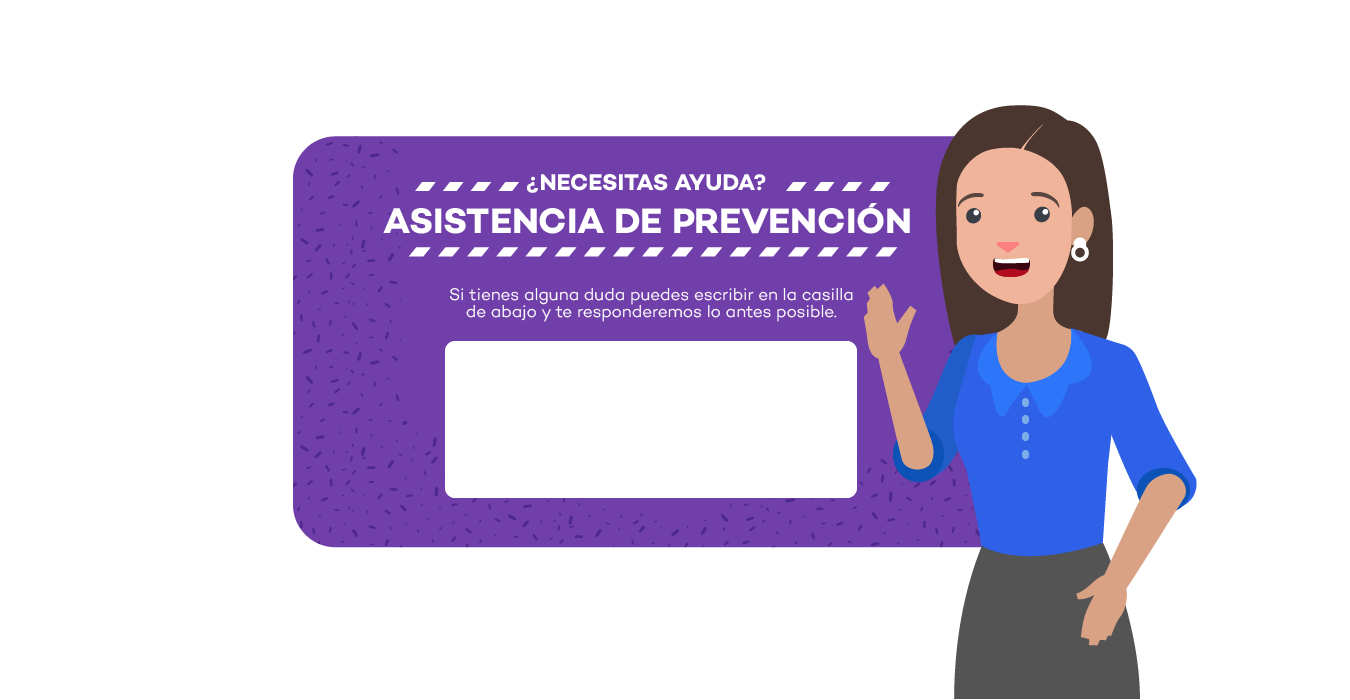
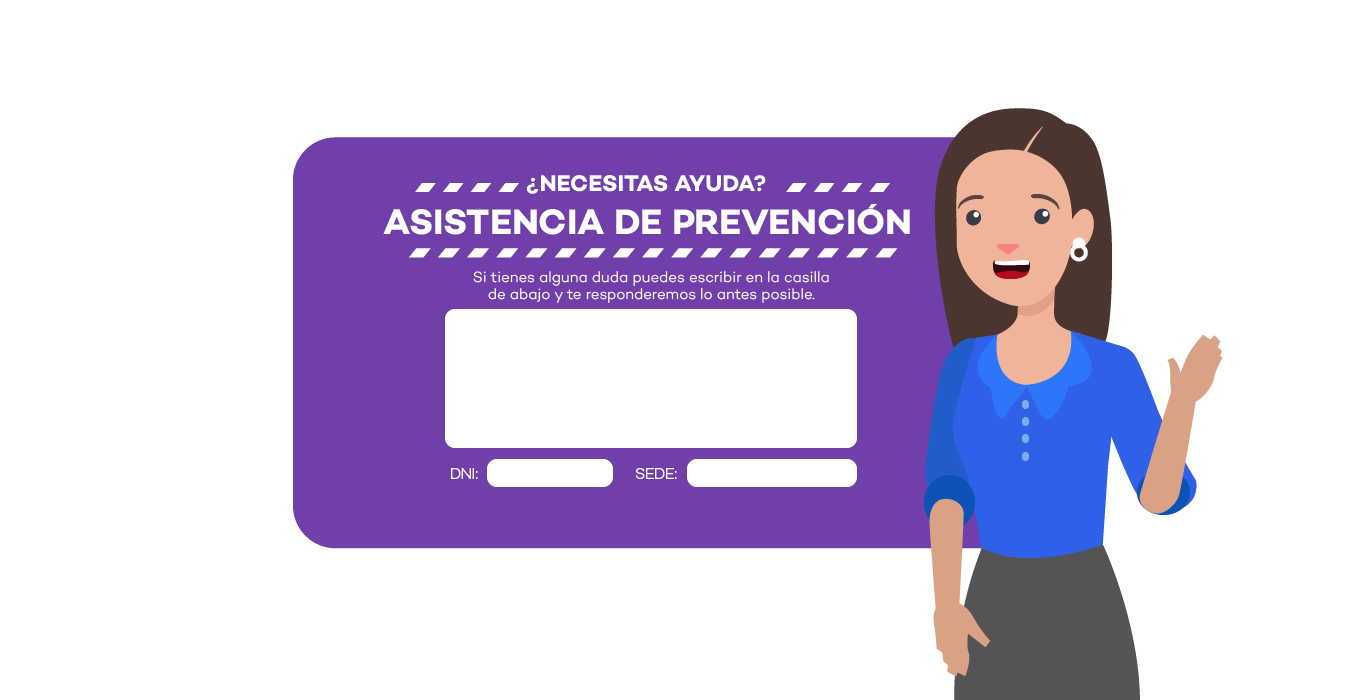
mapa buzon de correos

diff --git a/assets/mapa/js/inicio.js b/assets/mapa/js/inicio.js
@@ -47,6 +47,7 @@ var $J = [];
 $J[1] = new Lab_Juego();
 
 var $scaleActual = 1;
+var buzon_chart = 'Si tienes alguna duda puedes escribir en la casilla de abajo y te responderemos lo antes posible.';
 
 $.fn.reverse = [].reverse;
 
@@ -84,13 +85,34 @@ function initSonidos() {
 }
 function initBotones() {
 
+    $('.accordionMC').click(function () {
+        var idResp = $(this).attr('id').split("_")[1];
+        if($(this).hasClass('active')){
+            $(this).removeClass('active');
+            $('#pan_acord_'+idResp).hide();
+        } else{
+            $('.accordionMC').removeClass("active");
+            $(".panel").hide();
+            $(this).addClass('active');
+            $('#pan_acord_'+idResp).show();
+        }
+    });
+
+    $("#pop2ta").focus(function() {
+        $('#pop2txt1').html(buzon_chart);
+    });
+
+    $('#correo_mc').click(function() {
+        $('#accordion').fadeOut(500);
+        $('#formBuzon').fadeIn(500);
+    });
+
     $('.anim').click(function() {
         if($( "#topBar" ).hasClass("animPers")){
             $('#topBar').removeClass('animPers');
         }else{
             $('#topBar').addClass('animPers');
         }
-        
     });
 
     $('#btn_cont').click(function () {
@@ -139,7 +161,9 @@ function initBotones() {
         //$J[$JAct].CTiempo = $J[$JAct].CTiempo + 1;
         isPaused = false;
     });
+
     $('.pregOpc').click(function () {
+        playSound(window.playBTN);
         $('.caratula').stop().fadeOut(300);
         var idResp = parseInt($(this).attr('id').split("_")[2], 10);
         $('#powerUp_'+$ActPwrUp).addClass("hit");
@@ -157,6 +181,12 @@ function initBotones() {
                 isPaused = false;
             }, 1500);
             $PowerUps[$ActPwrUp - 1].visible = 200;
+            $('#accordion').fadeIn(500);
+            $('#formBuzon').fadeOut(500);
+
+            $('#pop2txt1').html(buzon_chart);
+            $('#pop2ta').val('');
+                
         }else{
             playSound(window.audioCrash);
             $ActPwrUp = 1;
@@ -177,13 +207,13 @@ function initBotones() {
 
     $('#i4Buzon').click(function () {
         playSound(window.playBTN);
-        $('#pop2txt1').show().html(pop2txt1);
+        $('#pop2txt1').show().html(buzon_chart);
         $('#pop2ta').val('');
         $('#popup2').fadeIn(1000);
     });
 
     //Envío de buzón
-    pop2txt1 = $('#pop2txt1').html();
+    //pop2txt1 = $('#pop2txt1').html();
     $('#pop2sub').click(function (e) {
         playSound(window.playBTN);
         e.preventDefault();
@@ -199,31 +229,29 @@ function initBotones() {
                 url: bdir + 'ajax/send_buzon'
             }).done(function (data, textStatus, jqXHR) {
                 $('#pop2txt1').show().html(data);
-                // console.log("OK:");
-                // console.log(data);
                 setTimeout(function () {
+                    $('#accordion').fadeIn(500);
+                    $('#formBuzon').fadeOut(500);
                     $('#pregWindow').fadeOut(1000);
                     $('#popAct_1').fadeOut(1000);
                     isPaused = false; 
                 }, 1000);
             }).fail(function (jqXHR, textStatus, errorThrown) {
-                // console.log("Fail:");
+                $('#pop2ta').addClass('error');
+                //console.log("Falló el envio de consulta");
                 // console.log(jqXHR);
             }).always(function () {
                 $('#pop2ta').removeClass('disable');
                 $('#pop2sub').removeClass('disable');
             });
         } else {
-            $('#pop2txt1').html('Complete el campo');
+            $('#pop2txt1').html('Completar el campo de consulta.');
         }
     });
     $('#pop2close').click(function () {
         playSound(window.playBTN);
         $('#popAct_1').fadeOut(1000);
     });
-
-
-
 }
 
 function initJuegos() {
@@ -328,9 +356,6 @@ function muestraPregunta() {
     isPaused = true;
     $(".caratula").hide();
     $("#pregWindow").show();
-    //$(".pregVista").hide();
-    //$("#bienFlechas").removeClass("animated bounceIn").hide();
-    //$(".bienSlider div").removeClass("animated bounceInRight").hide();
     PlayerMov.areaPtje.stop().removeClass('animated rubberBand').fadeOut(300);
     if($ActPwrUp == 2){
         if($drivers == 2){
@@ -348,15 +373,11 @@ function muestraPregunta() {
         $("#popAct_1").show();
     }else{
          $("#popAct_" + $ActPwrUp).show();   
-    }
-
-
-    
-    //$('#pregTXT').html($slA[$ActPwrUp]);
-    
+    }    
 }
+
 function snd_hablar(snd){
-    console.log(snd);
+    //console.log(snd);
     switch (snd) {
         case 1:
             playSound(window.Hablar2);                      

diff --git a/assets/mapa/css/estJuego.css b/assets/mapa/css/estJuego.css
@@ -1017,14 +1017,94 @@
 }
 
 /*******************************  Popup Buzon  *******************************/
-/* #pop2txt1{
-    padding: 50px 42px 30px;
-    font-family: "Catalogo";
-    font-size: 16px;
-    line-height: normal;
+#formBuzon{
+  position: absolute;
+  top: 0px;
+  left: 0px;
+  display: none;
+}
+#accordion{
+  background: url(../images/formulario/back_pop.png) no-repeat center center;
+  width: 749px;
+  height: 412px;
+  position: absolute;
+  left : 293px;
+  top : 136px;
+}
+.maestra{
+  background : url(../images/formulario/maestra.png) no-repeat;
+  position : absolute ;
+  left: 632px;
+  top: -32px;
+  width : 299px;
+  height : 593px;
+}
+.cont_accord
+{
+  position : absolute ;
+  left: 99px;
+  top: 141px;
+  width : 536px;
+  height : 196px;
+  overflow: scroll;
+  -webkit-overflow-scrolling: touch;
+  -ms-overflow-scrolling: touch;
+  -moz-overflow-scrolling: touch;
+  -o-overflow-scrolling: touch;
+}
+
+.accordionMC {
+  background-color: rgba(73, 46, 153, 0);
+  font-family: "Catalogo";
+  color: #fff;
+  cursor: pointer;
+  padding: 8px;
+  width: 100%;
+  border: none;
+  text-align: left;
+  outline: none;
+  font-size: 13px;
+  transition: 0.4s;
+}
+
+.active, .accordionMC:hover {
+  background-color: #482E99; 
+}
+
+.panel {
+  padding: 0 18px;
+  display: none;
+  background-color: #4A35A5;
+  overflow: hidden;
+  color: #ffffff;
+  font-family: "Catalogo";
+  font-size: 13px;
+}
+
+.accordionMC:after {
+    content: '\25b6';
     color: #ffffff;
-    text-align: center;
-} */
+    font-weight: bold;
+    float: left;
+    margin-left: 5px;
+    margin-right: 7px;
+    margin-top: -3px;
+}
+
+.active:after {
+    content: "\25bc";
+}
+#pop2txt1{
+  font-family: "Catalogo";
+  font-size: 16px;
+  line-height: normal;
+  color: #ffffff;
+  text-align: center;
+  position: absolute;
+  width: 420px;
+  top: 283px;
+  left: 442px;
+}
 #pop2ta{
     display: block;
     position: absolute;
@@ -1075,16 +1155,15 @@
     cursor: pointer;
 }
 
-/* #pop2close{
+#correo_mc{
   position: absolute;
-    left: 433px;
-    top: -15px;
-  width : 51px;
-  height : 51px;
-  background: rgba(0,0,0,0)  url(../images/formulario/cerrar.png) no-repeat 50% 50%;
-  background-size: contain;
+  left: 133px;
+  top: 378px;
+  width: 204px;
+  height: 51px;
+  background:url(../images/formulario/consultas.png) no-repeat;
   cursor:pointer;
-} */
+}
 /*******************************  Nivel PopUp Content Prevencion  *********************************/
 
 .i4Nivel{

diff --git a/assets/mapa/css/estGeneral.css b/assets/mapa/css/estGeneral.css
@@ -198,7 +198,7 @@ body{
 }
 #PauseGame{
     position: absolute;
-    width: 1351px; height: 700px;
+    width: 1351px; height: 701px;
     left: 0px; top: 0px;
     background: rgba(0,0,0,0.8) url(../images/fondoPausa.png) no-repeat 50% 50%;
     display: none;

diff --git a/application/views/mapa.php b/application/views/mapa.php
@@ -199,17 +199,58 @@ No te pierdas ninguno de las misiones, ya que muchas de ellos podrán llevarte a
                 </div>
 
                 <div id="popAct_1" class="caratula">
-                    <div class="opcAyuda"><p class="ayuda_MC"> </p></div>
                     <!-- <div id="i4Buzon"></div> -->
-                    <div id="preg_1_1" class="aceptaCd pregOpc"> </div>
+
+                    <div id="accordion">
+                        <div class="maestra"></div>
+                        <div class="cont_accord">
+                            <button id="acord_1" class="accordionMC">¿No puedo ingresar a algunos cursos?</button>
+                            <div id="pan_acord_1" class="panel">
+                                <p>Aqui va la respuesta de las preguntas correspondiente.</p>
+                            </div>
+
+                            <button id="acord_2" class="accordionMC">Si tengo una duda respecto a uno de los cursos </button>
+                            <div id="pan_acord_2" class="panel">
+                                <p>Aqui va la respuesta de las preguntas correspondiente.</p>
+                            </div>
+
+                            <button id="acord_3" class="accordionMC">¿Con quién puedo comunicarme?</button>
+                            <div id="pan_acord_3" class="panel">
+                                <p>Aqui va la respuesta de las preguntas correspondiente.</p>
+                            </div>                            
+
+                            <button id="acord_4" class="accordionMC">¿Qué pasa si se cuelga el sistema y estoy realizando el reto?</button>
+                            <div id="pan_acord_4" class="panel">
+                                <p>Aqui va la respuesta de las preguntas correspondiente.</p>
+                            </div>                            
+
+                            <button id="acord_5" class="accordionMC">¿Cuánto es el puntaje mínimo para aprobar los cursos?</button>
+                            <div id="pan_acord_5" class="panel">
+                                <p>El puntaje mínimo para cada curso es de 70 puntos, recuerda que tienes 3 intentos por cada reto; en caso de agotarlos deberás escribir a “Asistencia de prevención” indicado el motivo.</p>
+                            </div>                            
+
+                            <button id="acord_6" class="accordionMC">No puedo descargar mi certificado ¿Qué puedo hacer?</button>
+                            <div id="pan_acord_6" class="panel">
+                                <p>Aqui va la respuesta de las preguntas correspondiente.</p>
+                            </div>                            
+
+                            <button id="acord_7" class="accordionMC">¿Puedo volver a revisar los contenidos de los cursos?</button>
+                            <div id="pan_acord_7" class="panel">
+                                <p>Aqui va la respuesta de las preguntas correspondiente.</p>
+                            </div>                            
+                        </div>
+                        <div id="correo_mc"></div>
+                    </div>
 
                     <form id="formBuzon" class="clearfix" method="post" action="#">
-                        <!-- <div id="pop2txt1">Sabemos que es importante para ti, tener todos los conceptos claros de cada nivel, si tienes una duda o consulta detállala en el siguiente recuadro y te responderemos dentro de las 24 horas.</div> -->
+                        <div class="opcAyuda"><p class="ayuda_MC"> </p></div>
+                        <div id="pop2txt1">Si tienes alguna duda puedes escribir en la casilla de abajo y te responderemos lo antes posible.</div>
                         <textarea id="pop2ta" maxlength="400"></textarea>
                         <!-- <div id="pop2txt2">(*) Los días miércoles las respuestas a tus dudas o consultas serán en tiempo real de 8:30 a.m. a 6:00 p.m.</div> -->
                         <input id="pop2sub" class="clearfix" type="submit" value=" ">
                         <!-- <div id="pop2close"></div> -->
-                    </form>
+                    </form> 
+                    <div id="preg_1_1" class="aceptaCd pregOpc"> </div>
                    
                 </div>
 
